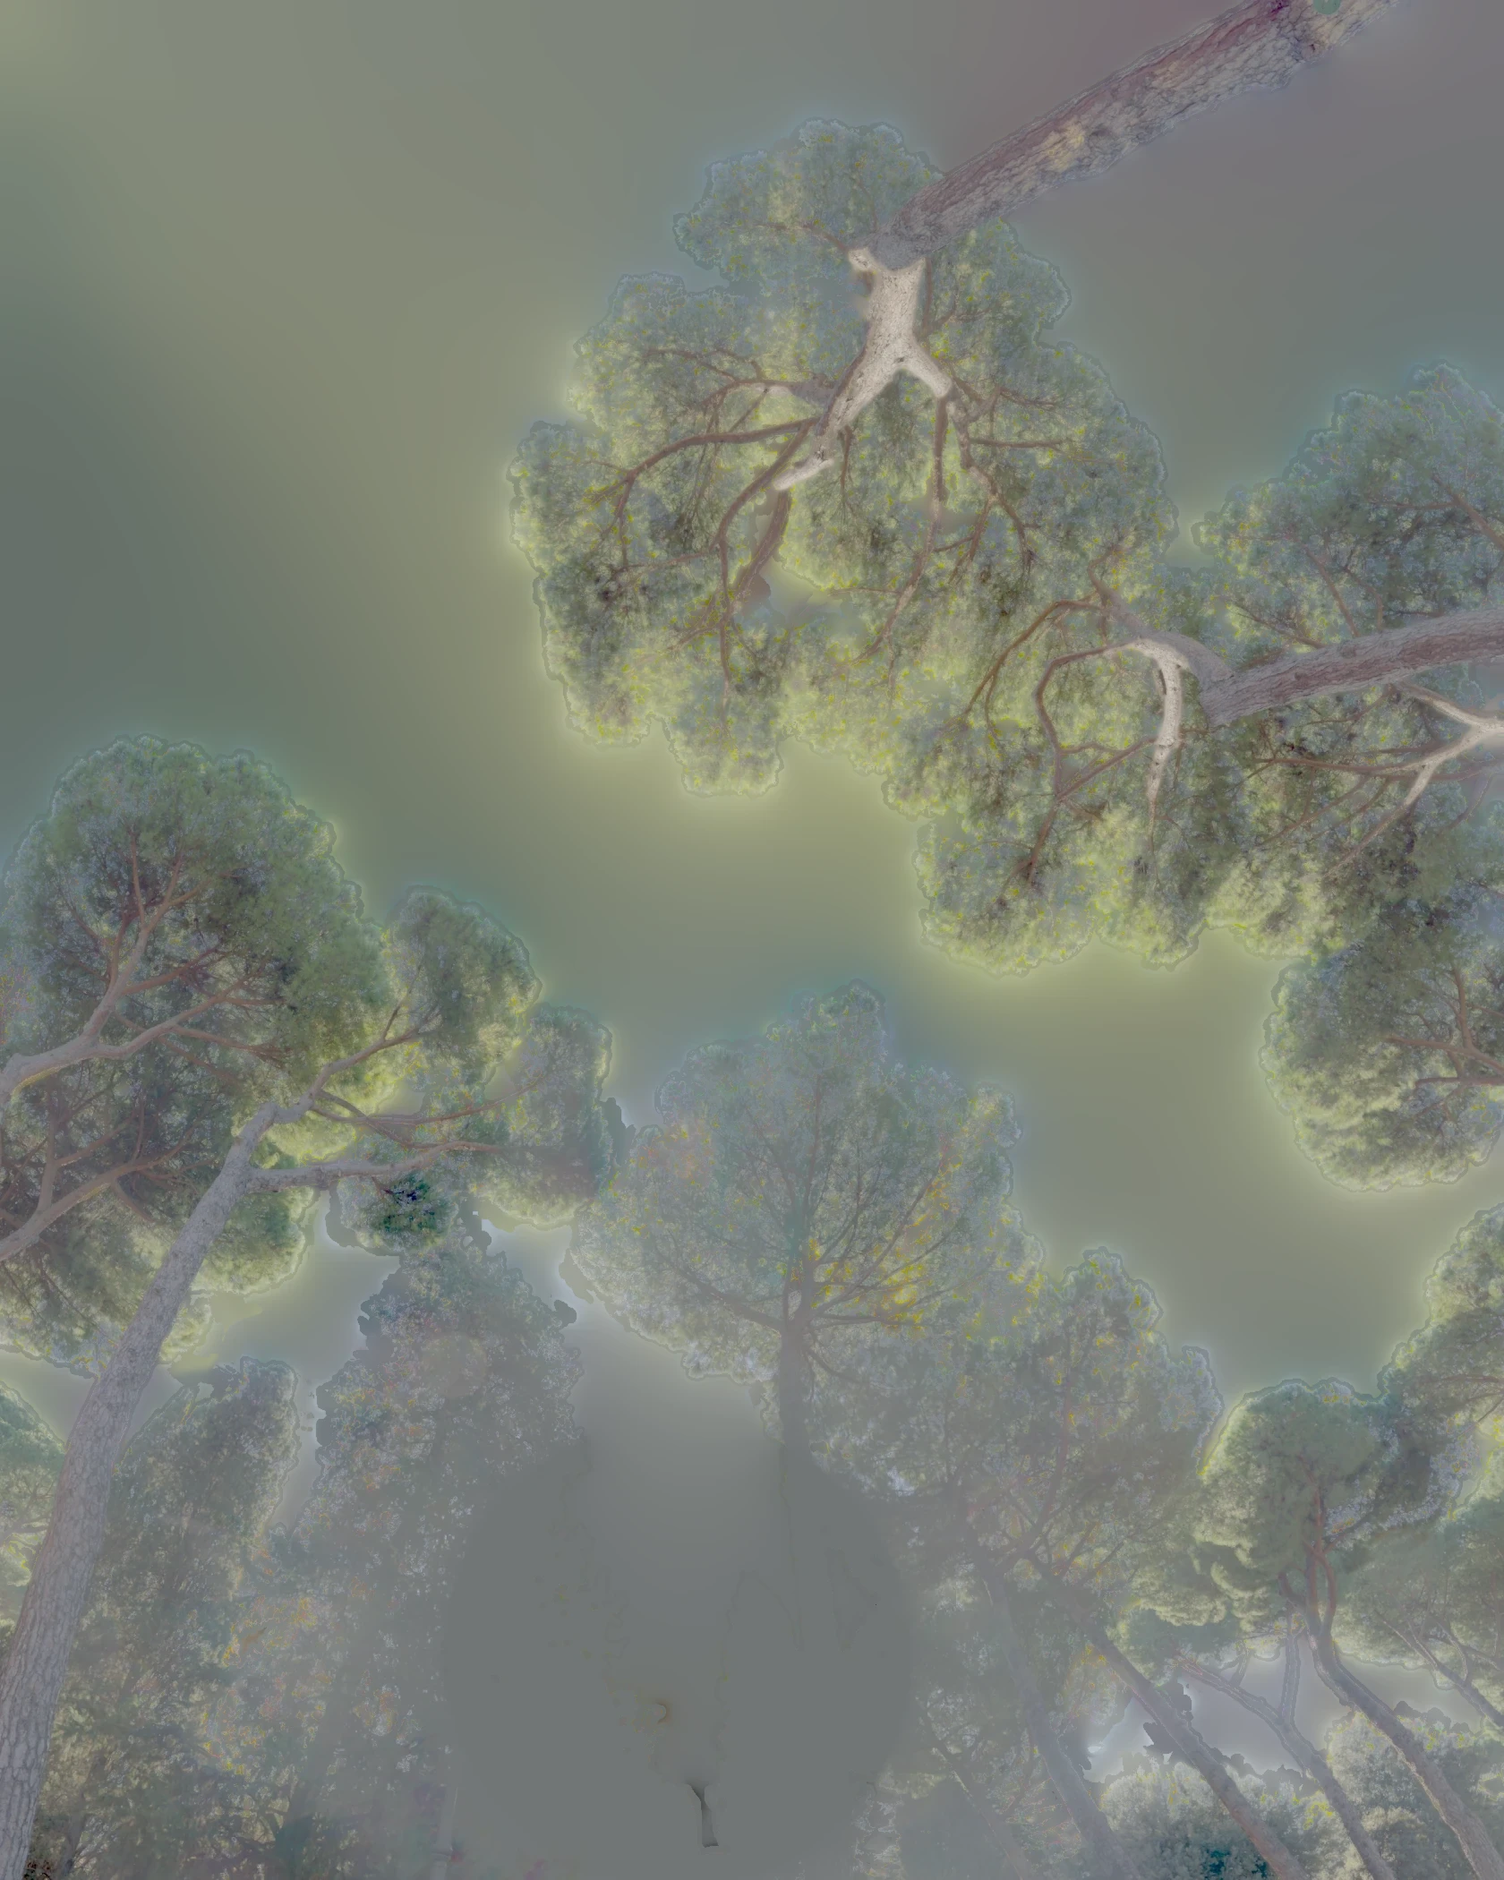
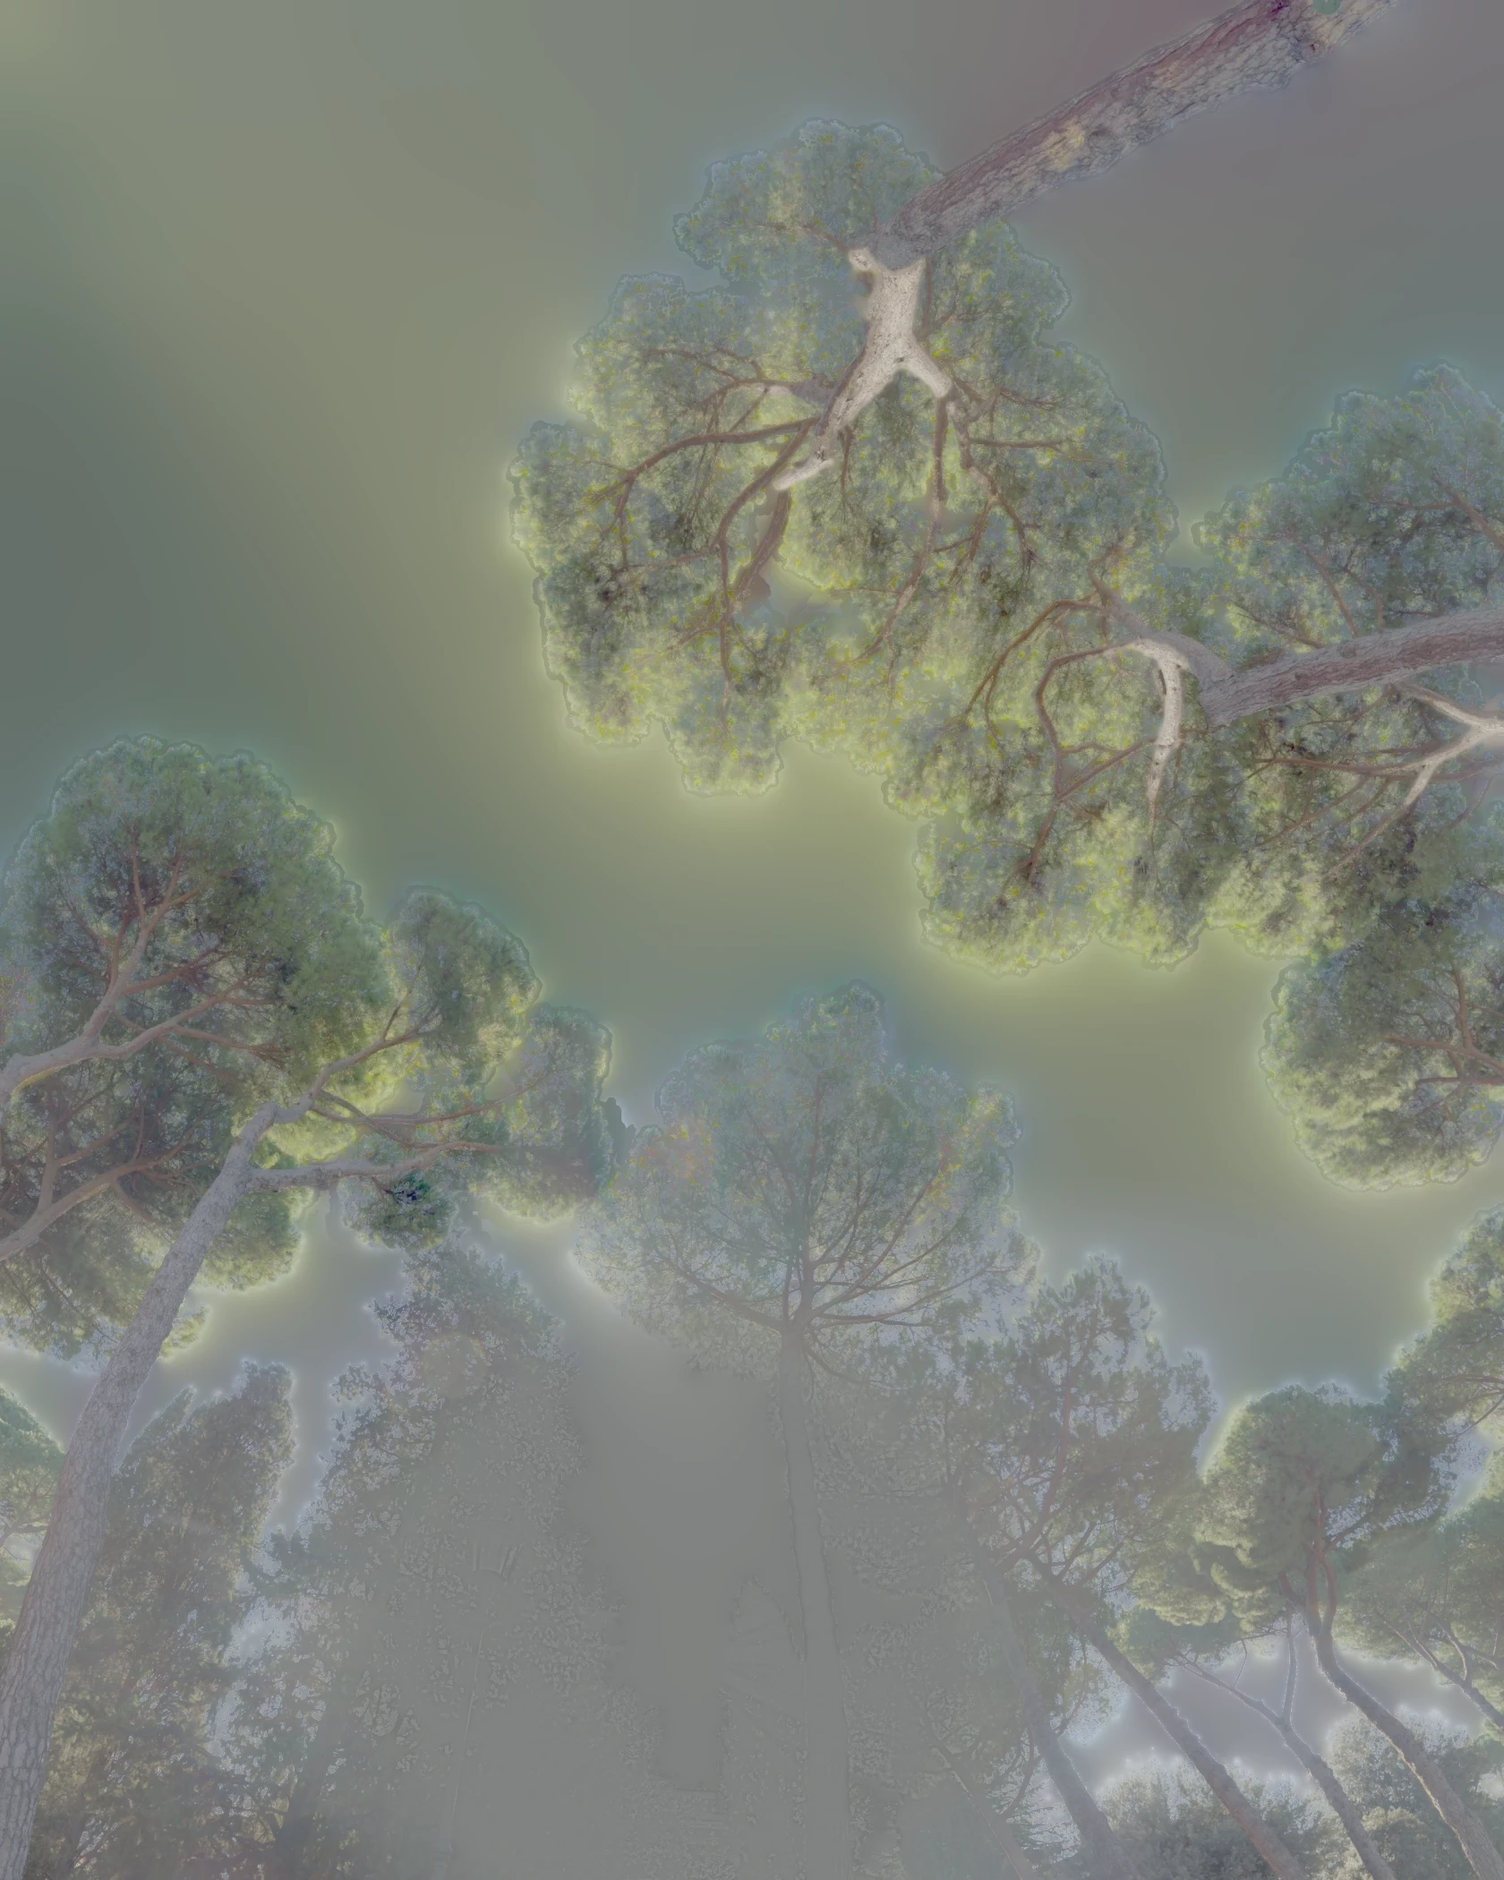
Lab: climb komorebi round 2
Claude-Session: https://claude.ai/code/session_01RqENhngNCzDFmJWDZueXGV

diff --git a/src/app/lab/komorebi/komorebiEngine.js b/src/app/lab/komorebi/komorebiEngine.js
@@ -53,9 +53,12 @@ import { createFilm, FILM_PRESETS } from "../_kit/film";
 // silhouettes against the glow. The film only diffuses what is past its thresholds;
 // its pyramid has long wings, so the disc goes in heavily filtered.
 //
-// The lower canopy, the cypresses and far pines against the low sky, is
-// pressed into silhouette and the scan's black kept low, so the bloom
-// above sits over a real dark rather than a grey-teal veil.
+// The lower canopy, the cypresses and far pines against the low sky, was
+// rebaked from the HDRI at full resolution (the capture's own sun stood
+// among them, and its flare had cost them their edges), so they keep their
+// real needle-sharp silhouettes; here they are pressed to a true black and
+// the scan's black kept low and neutral, so they frame the glowing sky as
+// the sharp dark under it rather than a grey-teal veil.
 //
 // Query: ?t=seconds holds the simulation at that moment (deterministic);
 // with ?wind=0..1 a breath of that strength sets off at t = 0.5 s.
@@ -156,6 +159,8 @@ const FILM = {
   // A scan's black, kept low so the lower canopy is a silhouette, not a
   // grey-teal veil.
   toe: 0.022,
+  // ...and neutral, so the silhouettes sink to black, not to a navy.
+  toeColor: [0.92, 1, 1.06],
   grain: 0.34,
   vignette: 0.22,
 };
@@ -187,8 +192,12 @@ const CLOUD_GRADE = {
   own: 0.6, // share of the capture's own colour kept in a cloud's body
   forward: 0.35, // gain on cloud by the sun, from the light it scatters forward
 };
-// The lower canopy's shadows sink by c / (c + 0.02): 0 off, 1 full.
-const SILHOUETTE = 0.85;
+// The lower canopy's shadows sink by c / (c + knee): strength 0 off, 1 full.
+// The cypresses and far pines are rebaked from the HDRI with needle-sharp
+// mattes (tools/depth/bakes/komorebi/lowband.py); pressed this hard they go
+// to a true black against the sky, their sunlit needles keeping a little
+// light, so they are the sharp dark that frames the glow.
+const SILHOUETTE = { strength: 1, knee: 0.1 };
 const BASE_EXPOSURE = 0.35; // stops, artistic, on top of 1/GAIN
 
 const VERT = `#version 300 es
@@ -222,7 +231,7 @@ uniform vec4 uGlareW;        // core width shut, open; bloom width shut, open
 uniform vec3 uGlint;         // needle-edge glint, rgb peak
 uniform vec3 uEdge;          // x gradient half-span (px), y share on a crown's body, z glint reach (bloom widths)
 uniform vec4 uHalo;          // halation ring: rgb peak, a radius (core widths)
-uniform float uSil;          // how far the lower canopy sinks into silhouette
+uniform vec2 uSil;           // how far the lower canopy sinks into silhouette, knee
 uniform vec4 uTuft;          // xy tuft offset (asset uv), z radius (asset widths), w pinhole
 uniform vec2 uLog;
 uniform sampler2D uCloudsBlur; // same texture, mipmapped sampler
@@ -383,11 +392,11 @@ void main() {
   // The lower canopy, the cypresses and far pines against the low sky, is
   // pressed down into silhouette: its shadows sink towards black, its lit
   // needles keep most of their light.
-  float sil = uSil * smoothstep(0.5, 0.95, uv.y);
+  float sil = uSil.x * smoothstep(0.5, 0.95, uv.y);
   vec3 c0 = canopy(u0);
   vec3 c1 = canopy(u1);
-  c0 *= mix(vec3(1.0), c0 / (c0 + 0.02), sil);
-  c1 *= mix(vec3(1.0), c1 / (c1 + 0.02), sil);
+  c0 *= mix(vec3(1.0), c0 / (c0 + uSil.y), sil);
+  c1 *= mix(vec3(1.0), c1 / (c1 + uSil.y), sil);
   col = mix(col, c0, a0);
   col = mix(col, c1, a1);
   if (a2 > 0.0) {
@@ -975,7 +984,7 @@ export async function createKomorebi(host, { embedded = false } = {}) {
     gl.uniform4f(u.uHalo, HALO.peak * HALO.color[0], HALO.peak * HALO.color[1], HALO.peak * HALO.color[2], HALO.radius);
     const tx = tuft.x - tuft.sx + tuft.fx;
     const ty = tuft.y - tuft.sy + tuft.fy;
-    gl.uniform1f(u.uSil, SILHOUETTE);
+    gl.uniform2f(u.uSil, SILHOUETTE.strength, SILHOUETTE.knee);
     gl.uniform4f(u.uTuft, tx, ty * ASPECT, TUFT.r, TUFT.pinhole);
     // The film's halation follows the gap too: a red fringe round the open
     // sun, next to none round the pinpoint.

diff --git a/tools/depth/bakes/komorebi/lowband.py b/tools/depth/bakes/komorebi/lowband.py
@@ -1,0 +1,233 @@
+# Rebake the lower depth band (the cypresses and far pines, asset rows
+# 1300..2100) of canopy.webp and layers.webp from the 16K HDRI at full
+# resolution.
+#
+# The first bake took this band from a master that had the capture's own low
+# sun in it (asset ~756, 1848): the lens veil and diffraction spikes round it
+# were cut out with the foliage, so the cypress there was a blobby matte over
+# an inpainted grey wash. Here the band is rendered straight from the HDRI
+# (2x supersampled, area-downsampled: ~1 HDRI px per asset px), then
+#   1. the veil is taken out as a radial low envelope round that sun and the
+#      spikes as the angular top-hat of the radial envelope in polar
+#      coordinates (despike, as in the first bake);
+#   2. the clear sky is a smooth robust fit (cubic over the frame plus a
+#      polynomial in log r round the sun), so no needle or spike lands in it;
+#   3. sky transmittance comes from blue against a local foliage floor, with
+#      the despiked image inside the trees and the veil-only image across
+#      wide sky (despike over-subtracts there); the blown disc is sky, and a
+#      dead zone (wider by the sun) drops the unmixing residue;
+#   4. the far matte is what the nearer layers (kept as they were) leave to
+#      cover; behind them it is the far matte mirrored across the occluder's
+#      edge, so a swaying trunk uncovers real needles, not a smear;
+#   5. the foliage light is the photograph's, unpremultiplied; rim needles are
+#      held within a stop of the solid foliage round them, and round the
+#      capture's sun (lens flare on the needles) it is the solid silhouette
+#      colour from a ring further out, textured by the needles' own light.
+#      Under sky gaps the colour is pushed outward from the solid needles.
+# The band blends into the old assets over the first `blend` rows.
+#
+# Run in a folder holding piazza_16k.hdr (Poly Haven piazza_martin_lutero,
+# 16K) and the current assets as canopy.orig.webp, layers.orig.webp:
+#     python3 -I lowband.py '{"out":".../public/lab/komorebi/"}'
+import sys, os, json, numpy as np, cv2
+
+P = {"y0": 1300, "blend": 110, "dead": 0.07, "ss": 2.0, "hdr": "piazza_16k.hdr", "out": "out/"}
+if len(sys.argv) > 1: P.update(json.loads(sys.argv[1]))
+YA = P["y0"]
+LUM = np.array([.2126, .7152, .0722], np.float32)
+
+# ------------------------------------------------------------ view geometry
+Y_, P_, F_, N_ = 36, -64, 140, 2560
+X0, Y0, CW, CH = 521, 94, 1680, 2100
+SUN_CROP = (756.36, 1847.60)  # the capture's sun, asset px
+
+
+def rot(yaw, pitch):
+    p = np.radians(pitch); cp, sp = np.cos(p), np.sin(p)
+    Rx = np.array([[1, 0, 0], [0, cp, sp], [0, -sp, cp]])
+    t = np.radians(yaw); ct, st = np.cos(t), np.sin(t)
+    Ry = np.array([[ct, 0, st], [0, 1, 0], [-st, 0, ct]])
+    return Ry @ Rx
+
+
+def crop_uv(scale, ya, eqW, eqH):
+    w = int(round(CW * scale)); h = int(round((CH - ya) * scale))
+    xs = (np.arange(w) + 0.5) / scale - 0.5 + X0
+    ys = (np.arange(h) + 0.5) / scale - 0.5 + Y0 + ya
+    x, y = np.meshgrid(xs - (N_ - 1) / 2, ys - (N_ - 1) / 2)
+    half = np.radians(F_) / 2; f = (N_ / 2) / (2 * np.tan(half / 2))
+    r = np.hypot(x, y); th = 2 * np.arctan(r / (2 * f))
+    s = np.where(r > 0, np.sin(th) / np.maximum(r, 1e-9), 0)
+    d = (np.stack([x * s, y * s, np.cos(th)], -1) @ rot(Y_, P_).T).astype(np.float32)
+    lon = np.arctan2(d[..., 0], d[..., 2]); lat = np.arcsin(np.clip(-d[..., 1], -1, 1))
+    u = ((lon / (2 * np.pi) + 0.5) * eqW - 0.5).astype(np.float32)
+    v = ((0.5 - lat / np.pi) * eqH - 0.5).astype(np.float32)
+    return u, v
+
+
+# --------------------------------------------------------------- 0. render
+eq = cv2.imread(P["hdr"], cv2.IMREAD_ANYDEPTH | cv2.IMREAD_COLOR)
+eqH, eqW = eq.shape[:2]
+u, v = crop_uv(P["ss"], YA, eqW, eqH)
+u0, v0 = int(u.min()) - 4, int(v.min()) - 4
+sub = np.nan_to_num(eq[v0:int(v.max()) + 5, u0:int(u.max()) + 5, ::-1].astype(np.float32), posinf=65504)
+del eq
+x = cv2.remap(sub, u - u0, v - v0, cv2.INTER_CUBIC, borderMode=cv2.BORDER_REPLICATE)
+del sub, u, v
+x = cv2.resize(np.maximum(x, 0), (CW, CH - YA), interpolation=cv2.INTER_AREA)
+H, W = x.shape[:2]
+sx, sy = SUN_CROP[0], SUN_CROP[1] - YA
+yy, xx = np.mgrid[:H, :W].astype(np.float32); r = np.hypot(xx - sx, yy - sy)
+
+# ----------------------------------------------------------- 1. veil, spikes
+rs = np.geomspace(20, 1400, 46); env = []
+for r0 in rs:
+    m = (r > r0 * 0.92) & (r < r0 * 1.09)
+    env.append(np.percentile(x[m], 1, axis=0) if m.sum() > 300 else np.array([np.nan] * 3))
+env = np.array(env); ok = ~np.isnan(env[:, 0])
+floor = np.percentile(x[r > 700], 0.5, axis=0)
+venv = np.maximum(env - floor, 1e-6)
+V = np.stack([np.exp(np.interp(np.log(np.maximum(r, 20)), np.log(rs[ok]), np.log(venv[ok, c]))) * 0.9
+              for c in range(3)], -1).astype(np.float32)
+yv = np.maximum(x - V, 0)
+Vl = V @ LUM
+rr_ = np.arange(0, 1400, 4.0)
+prof = np.array([Vl[(r >= a) & (r < a + 4)].mean() if ((r >= a) & (r < a + 4)).any() else np.nan for a in rr_])
+okp = ~np.isnan(prof)
+Vr = lambda q: np.interp(q, rr_[okp] + 2, prof[okp] + 0.003)
+
+
+def despike(y, R=650, win_deg=6.0, rwin=41):
+    NA, NR = 4096, R
+    th = np.linspace(0, 2 * np.pi, NA, endpoint=False).astype(np.float32); rr = np.arange(NR).astype(np.float32)
+    TH, RR = np.meshgrid(th, rr)
+    pol = cv2.remap(y, (sx + RR * np.cos(TH)).astype(np.float32), (sy + RR * np.sin(TH)).astype(np.float32),
+                    cv2.INTER_LINEAR, borderMode=cv2.BORDER_REPLICATE)
+    vr = Vr(np.maximum(rr, 8))[:, None, None]
+    z = pol / vr
+    e = cv2.blur(cv2.erode(z, np.ones((rwin, 1), np.uint8)), (1, rwin))
+    k = int(win_deg / 360 * NA) | 1
+    pad = np.concatenate([e[:, -k:], e, e[:, :k]], 1)
+    op = cv2.dilate(cv2.erode(pad, np.ones((1, k), np.uint8)), np.ones((1, k), np.uint8))[:, k:-k]
+    spike = np.maximum(e - op, 0) * vr
+    a = np.mod(np.arctan2(yy - sy, xx - sx), 2 * np.pi)
+    sp = cv2.remap(spike, (a / (2 * np.pi) * NA).astype(np.float32), np.minimum(r, NR - 1).astype(np.float32),
+                   cv2.INTER_LINEAR, borderMode=cv2.BORDER_REPLICATE)
+    w = np.clip((R * 0.98 - r) / (R * 0.3), 0, 1)[..., None]
+    return np.maximum(y - sp * w, y * 0.02)
+
+
+y = despike(yv)
+
+# ----------------------------------------------------------- 2. clear sky
+B = y[..., 2]; br = B / (y.sum(-1) + 1e-6)
+sky = (br > 0.38) & (B > 0.75 * cv2.dilate(B, np.ones((31, 31), np.uint8))) & (r > 30)
+
+
+def feats(X, Y, R):
+    a = X / W * 2 - 1; b = Y / H * 2 - 1; lr = np.log(np.maximum(R, 30))
+    cols = [np.ones_like(a), a, b, a * a, a * b, b * b, a ** 3, a * a * b, a * b * b, b ** 3]
+    cols += [lr ** k for k in range(1, 6)]
+    return np.stack(cols, -1)
+
+
+ys, xs = np.nonzero(sky[::4, ::4]); ys = ys * 4; xs = xs * 4
+Fm = feats(xs.astype(np.float32), ys.astype(np.float32), r[ys, xs])
+Z = np.log(np.maximum(y[ys, xs], 1e-5)); wt = np.ones(len(ys))
+for it in range(6):
+    coef = [np.linalg.lstsq(Fm * wt[:, None], Z[:, c] * wt, rcond=None)[0] for c in range(3)]
+    res = Z[:, 2] - Fm @ coef[2]
+    sd = 1.4826 * np.median(np.abs(res))
+    wt = 1 / (1 + (res / (2 * sd)) ** 2); wt[res < -3 * sd] = 0
+Fa = feats(xx, yy, r)
+S = np.exp(np.stack([Fa @ coef[c] for c in range(3)], -1)).astype(np.float32)
+del Fa
+
+
+# ------------------------------------------------------- 3. transmittance
+def Tof(img):
+    b = img[..., 2]
+    Fb = cv2.GaussianBlur(cv2.erode(b, np.ones((9, 9), np.uint8)), (0, 0), 4)
+    Fb = np.minimum(Fb, 0.5 * S[..., 2])
+    return np.clip((b - Fb) / np.maximum(0.93 * S[..., 2] - Fb, 1e-5), 0, 1)
+
+
+Tn, Td = Tof(yv), Tof(y)
+skyb = cv2.morphologyEx((Tn > 0.9).astype(np.uint8), cv2.MORPH_OPEN, cv2.getStructuringElement(cv2.MORPH_ELLIPSE, (15, 15)))
+skyb = cv2.GaussianBlur(cv2.dilate(skyb, np.ones((3, 3), np.uint8)).astype(np.float32), (0, 0), 1.0)
+T = Td * (1 - skyb) + np.maximum(Td, Tn) * skyb
+T = np.maximum(T, np.clip((64 - r) / 6, 0, 1))
+dz = P["dead"] + 0.18 * np.exp(-r / 260)
+T = np.clip((T - dz) / (1 - dz - P["dead"]), 0, 1)
+An = 1 - T
+
+# ------------------------------------------------------------ 4. far matte
+c8 = cv2.imread("canopy.orig.webp")[..., ::-1].astype(np.float32)
+l8 = cv2.imread("layers.orig.webp")[..., ::-1].astype(np.float32) / 255
+Cb = c8[YA:].copy(); L = l8[YA:].copy()
+vis = (1 - L[..., 1]) * (1 - L[..., 2])
+hid = vis < 0.15
+r_new = np.clip(1 - T / np.maximum(vis, 1e-3), 0, 1)
+
+
+def mirror_fill(img, hid):
+    _, lab = cv2.distanceTransformWithLabels(hid.astype(np.uint8), cv2.DIST_L2, 5, labelType=cv2.DIST_LABEL_PIXEL)
+    vy, vx = np.nonzero(~hid)
+    ly = np.zeros(lab.max() + 1, np.int32); lx = np.zeros(lab.max() + 1, np.int32)
+    ly[1:len(vy) + 1] = vy; lx[1:len(vx) + 1] = vx
+    qy, qx = ly[lab], lx[lab]
+    py, px = np.mgrid[:hid.shape[0], :hid.shape[1]]
+    my, mx = 2 * qy - py, 2 * qx - px
+    inb = (my >= 0) & (my < hid.shape[0]) & (mx >= 0) & (mx < hid.shape[1])
+    my = np.clip(my, 0, hid.shape[0] - 1); mx = np.clip(mx, 0, hid.shape[1] - 1)
+    inb &= ~hid[my, mx]
+    out = img.copy()
+    out[hid] = np.where(inb, img[my, mx], img[qy, qx])[hid]
+    return out
+
+
+r_new = mirror_fill(r_new, hid)
+
+# ------------------------------------------------------------ 5. foliage light
+Fobs = np.maximum(y - T[..., None] * S, 0) / np.maximum(An, 1e-3)[..., None]
+envd = cv2.GaussianBlur(cv2.erode(Fobs, np.ones((15, 15), np.uint8)), (0, 0), 6)
+wsun = (1 - np.clip((r - 260) / 160, 0, 1))[..., None]
+Fobs = Fobs * (1 - wsun) + np.minimum(Fobs, 1.6 * envd) * wsun
+lF = np.log2(np.maximum(Fobs, 2 ** -14))
+solid = (An > 0.92).astype(np.float32)
+n5 = cv2.GaussianBlur(lF * solid[..., None], (0, 0), 5); d5 = cv2.GaussianBlur(solid, (0, 0), 5)
+n20 = cv2.GaussianBlur(lF * solid[..., None], (0, 0), 20); d20 = cv2.GaussianBlur(solid, (0, 0), 20)
+wl = np.clip(d5 / 0.2, 0, 1)[..., None]
+loc = n5 / np.maximum(d5, 1e-6)[..., None] * wl + n20 / np.maximum(d20, 1e-6)[..., None] * (1 - wl)
+lF = np.where((An < 0.97)[..., None], np.clip(lF, loc - 1.0, loc + 0.6), lF)
+ring = (r > 420) & (r < 640) & (An > 0.95)
+Fsil = np.median(lF[ring], axis=0)
+Ly = np.log2(np.maximum(y @ LUM, 2 ** -14))
+hp = np.clip(Ly - cv2.GaussianBlur(Ly, (0, 0), 3), -1, 1)
+wsn = (1 - np.clip((r - 300) / 140, 0, 1))[..., None]
+lF = lF * (1 - wsn) + (Fsil[None, None, :] + 0.5 * hp[..., None]) * wsn
+
+
+def pushpull(v, w, levels=8):
+    vs = [v * w[..., None]]; ws = [w]
+    for i in range(levels): vs.append(cv2.pyrDown(vs[-1])); ws.append(cv2.pyrDown(ws[-1]))
+    ov, ow = vs[-1], ws[-1]
+    for i in range(levels - 1, -1, -1):
+        uv = cv2.pyrUp(ov, dstsize=(vs[i].shape[1], vs[i].shape[0])); uw = cv2.pyrUp(ow, dstsize=(ws[i].shape[1], ws[i].shape[0]))
+        kk = np.clip(ws[i] * 4, 0, 1); ov = vs[i] + uv * (1 - kk[..., None]); ow = ws[i] + uw * (1 - kk)
+    return ov / np.maximum(ow, 1e-8)[..., None]
+
+
+wA = (np.clip((An - 0.35) / 0.5, 0, 1) ** 2).astype(np.float32)
+Ff = np.where(wA[..., None] > 0.6, lF, pushpull(lF, wA))
+Cn = np.clip((Ff + 14) / 16, 0, 1) * 255
+
+# ------------------------------------------------------------ blend, write
+wB = np.clip(np.arange(H) / P["blend"], 0, 1); wB = (wB * wB * (3 - 2 * wB))[:, None]
+L[..., 0] = L[..., 0] * (1 - wB) + r_new * wB
+Cb = Cb * (1 - wB[..., None]) + Cn * wB[..., None]
+l8[YA:] = L; c8[YA:] = Cb
+os.makedirs(P["out"], exist_ok=True)
+cv2.imwrite(P["out"] + "canopy.webp", np.clip(c8 + 0.5, 0, 255).astype(np.uint8)[..., ::-1], [cv2.IMWRITE_WEBP_QUALITY, 90])
+cv2.imwrite(P["out"] + "layers.webp", np.clip(l8 * 255 + 0.5, 0, 255).astype(np.uint8)[..., ::-1], [cv2.IMWRITE_WEBP_QUALITY, 101])
+print("silhouette colour", 2 ** Fsil, "far cover", float((r_new > 0.5).mean()), "wrote", P["out"])

diff --git a/tools/depth/bakes/komorebi/README.md b/tools/depth/bakes/komorebi/README.md
@@ -73,3 +73,22 @@ needles are lifted to within 0.25 stop of their neighbours so a gap has no
 ink outline; last, the feathered rim is broken up by the needles' own light.
 
     python3 -I clean.py '{"out":".../public/lab/komorebi/"}'
+
+## lower band, rebaked from the HDRI
+
+The cypresses and far pines low in the frame (asset rows 1300..2100) stood
+round the capture's own low sun (asset ~756, 1848). In the first bake the
+lens veil and spikes there were cut out with the foliage, so that band was a
+blobby matte over an inpainted grey wash and rendered as a soft dark smear.
+`lowband.py` rebakes it from the 16K HDRI at full resolution (2x
+supersampled, ~1 HDRI px per asset px): veil and spikes out, a smooth robust
+clear-sky fit, sky transmittance from blue against a local foliage floor (the
+blown disc and the veil-model ring round it called sky, a dead zone against
+the residue), the far matte as what the kept nearer layers leave to cover,
+mirrored across an occluder's edge behind it (so a sway uncovers real
+needles), and the photograph's own foliage light, the flare-lit needles by
+the sun replaced by the solid silhouette colour with their own texture. It
+blends into the old assets over 110 rows. The engine presses the band to
+black (`SILHOUETTE`, `c / (c + 0.1)`).
+
+    python3 -I lowband.py '{"hdr":"piazza_16k.hdr","out":".../public/lab/komorebi/"}'
